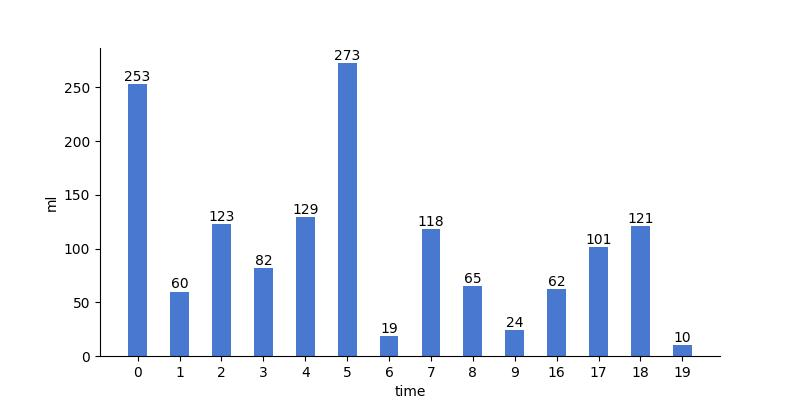
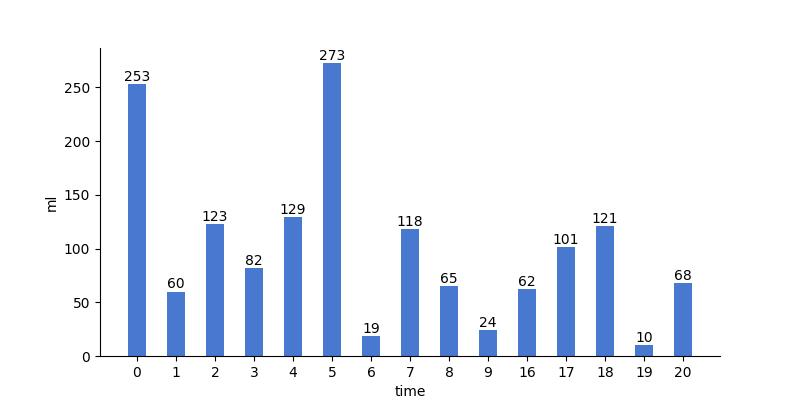
update

Changed region(s): [[0.1875, 0.12, 0.875, 0.96], [0.8438, 0.9, 0.875, 0.96], [0.1562, 0.9, 0.1875, 0.96]]

diff --git a/README.md b/README.md
@@ -5,12 +5,12 @@
 
 | 今日总饮水量 | 每小时平均饮水量 |
 | :----: | :----: |
-| 1440 | 102 |
+| 1508 | 100 |
 </div>
 
-| 日期 | 00:06:35 | 00:42:45 | 01:37:59 | 02:04:32 | 02:53:38 | 03:28:47 | 03:55:17 | 04:03:20 | 04:33:56 | 04:57:22 | 05:14:54 | 05:49:37 | 06:23:33 | 07:09:11 | 07:38:14 | 08:12:52 | 09:01:00 | 16:50:06 | 17:20:36 | 17:40:55 | 18:13:37 | 18:43:33 | 19:15:48 |
-| :----: | :----: | :----: | :----: | :----: | :----: | :----: | :----: | :----: | :----: | :----: | :----: | :----: | :----: | :----: | :----: | :----: | :----: | :----: | :----: | :----: | :----: | :----: | :----: |
-| 2022-03-26 | 53 | 200 | 60 | 84 | 39 | 72 | 10 | 61 | 18 | 50 | 73 | 200 | 19 | 55 | 63 | 65 | 24 | 62 | 61 | 40 | 46 | 75 | 10 |
+| 日期 | 00:06:35 | 00:42:45 | 01:37:59 | 02:04:32 | 02:53:38 | 03:28:47 | 03:55:17 | 04:03:20 | 04:33:56 | 04:57:22 | 05:14:54 | 05:49:37 | 06:23:33 | 07:09:11 | 07:38:14 | 08:12:52 | 09:01:00 | 16:50:06 | 17:20:36 | 17:40:55 | 18:13:37 | 18:43:33 | 19:15:48 | 20:15:13 |
+| :----: | :----: | :----: | :----: | :----: | :----: | :----: | :----: | :----: | :----: | :----: | :----: | :----: | :----: | :----: | :----: | :----: | :----: | :----: | :----: | :----: | :----: | :----: | :----: | :----: |
+| 2022-03-26 | 53 | 200 | 60 | 84 | 39 | 72 | 10 | 61 | 18 | 50 | 73 | 200 | 19 | 55 | 63 | 65 | 24 | 62 | 61 | 40 | 46 | 75 | 10 | 68 |
 
 # 近30日饮水数据
 
